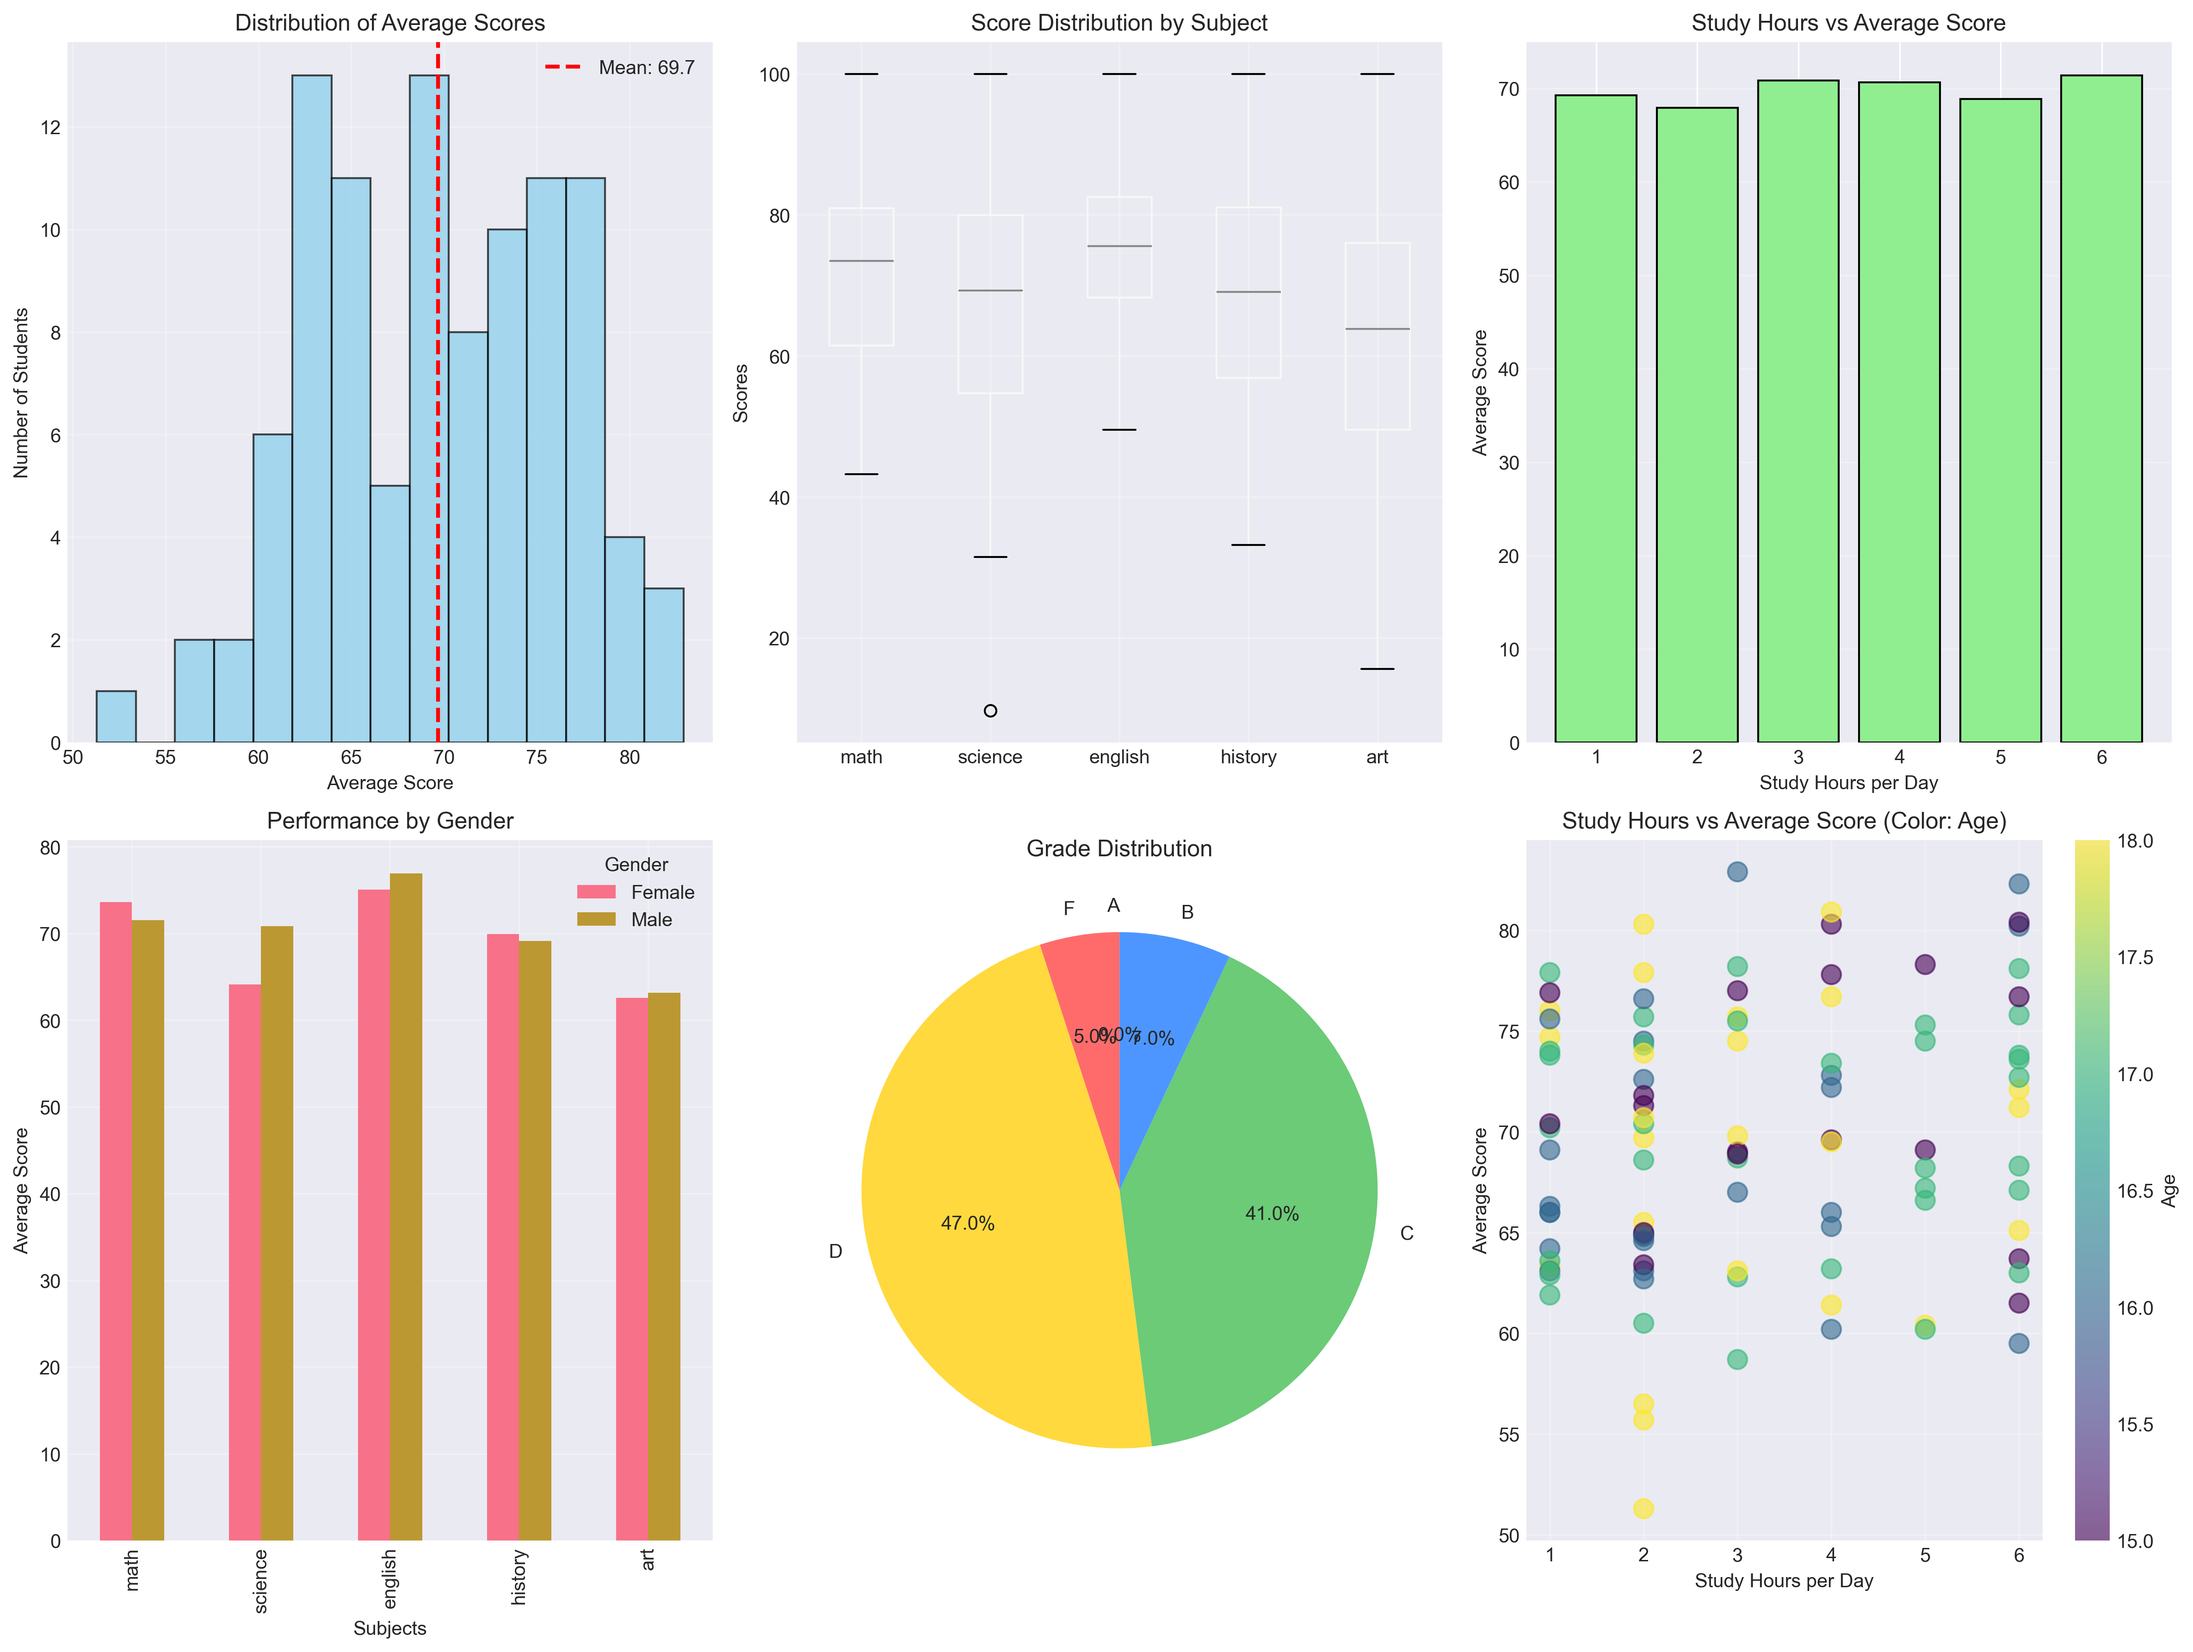
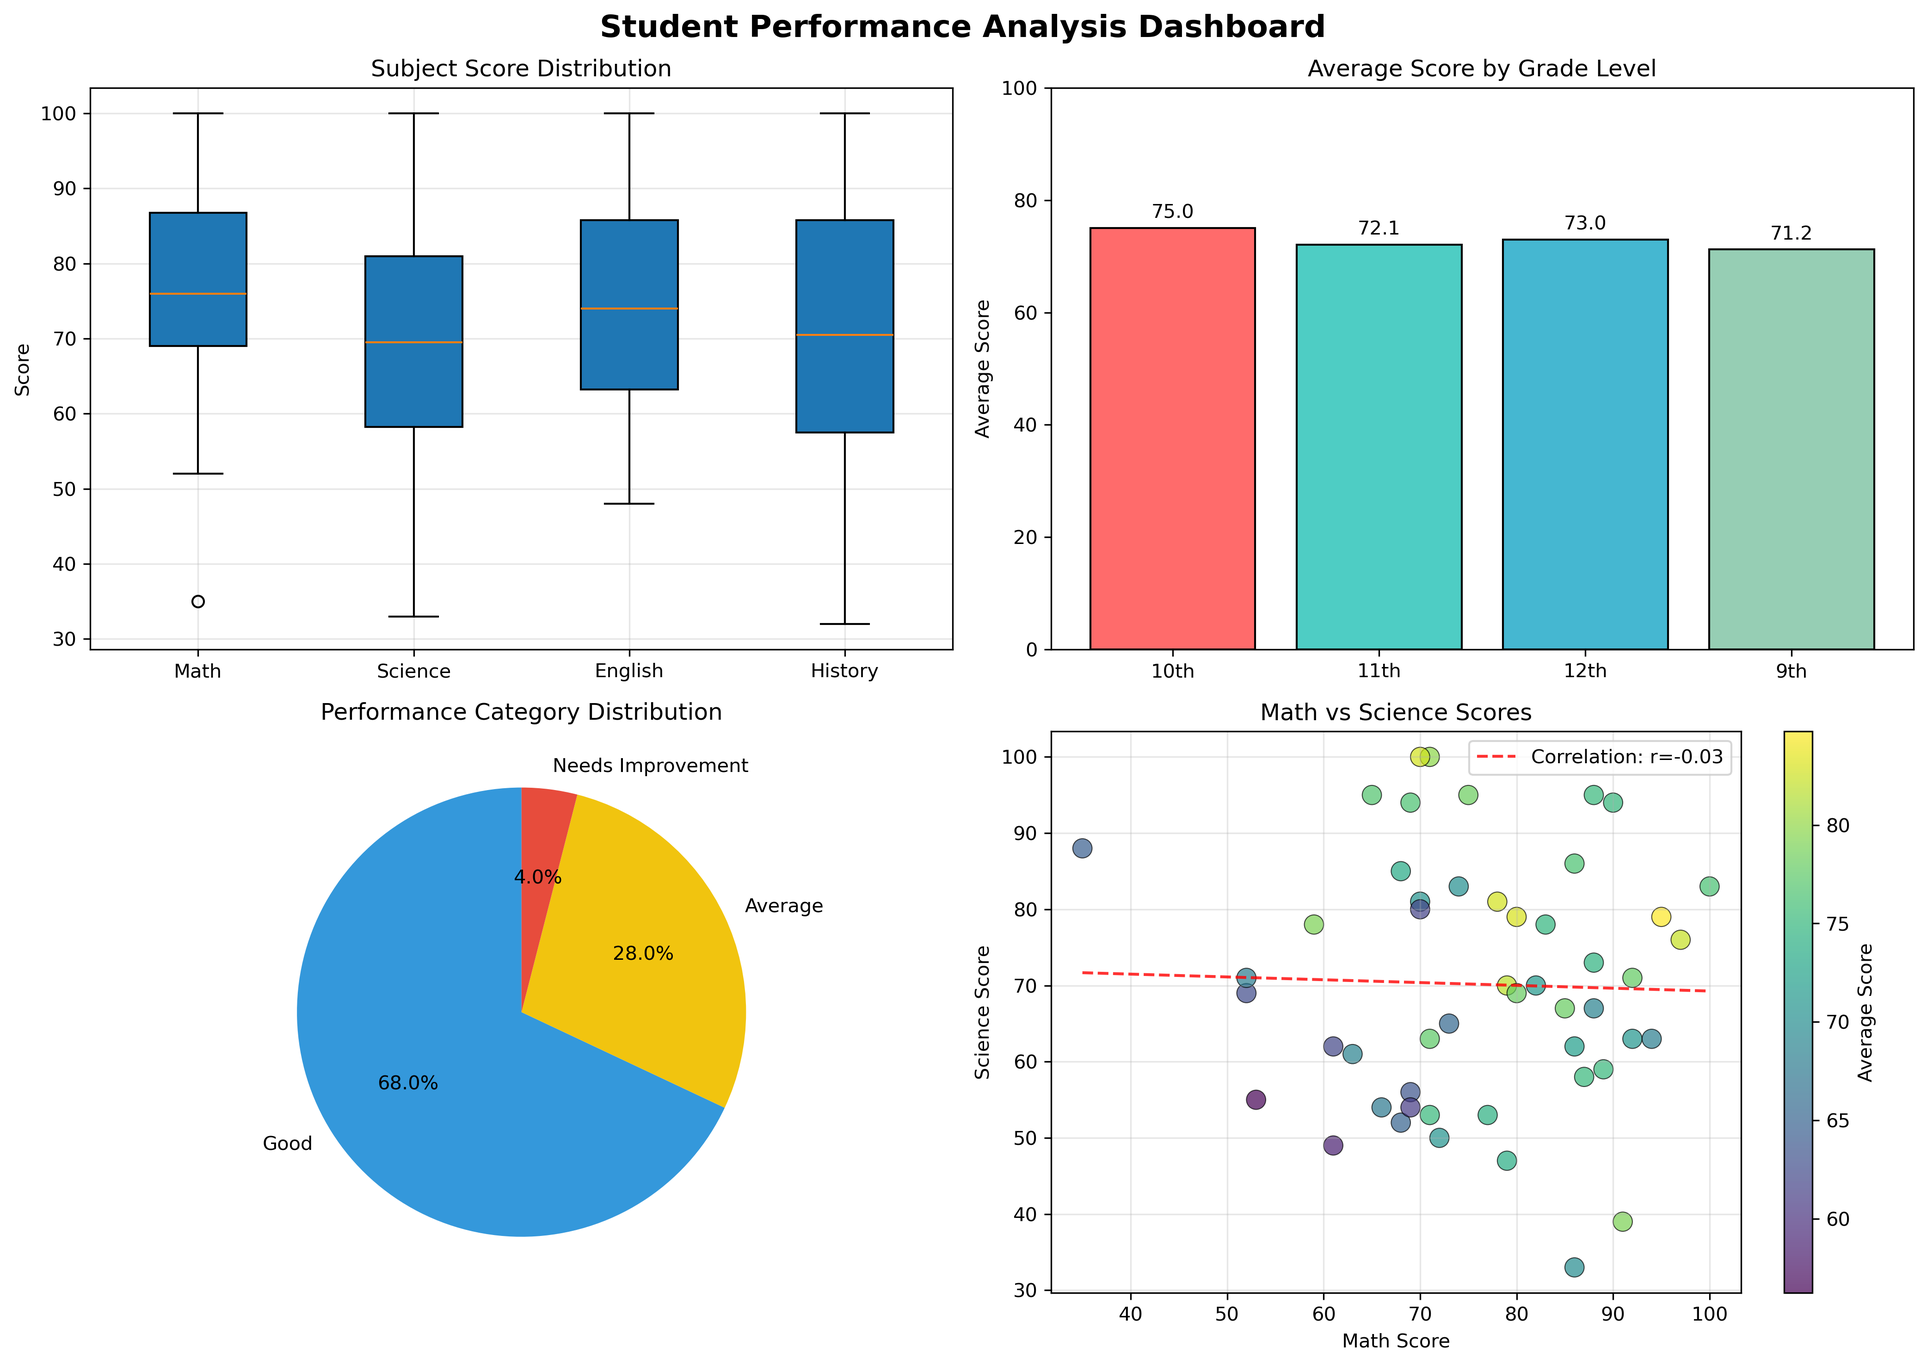
Created student performance analysis dashboard with data generation, statistics, and visualizations

diff --git a/Matplotlib/student_score_dashboard.py b/Matplotlib/student_score_dashboard.py
@@ -1,0 +1,181 @@
+import numpy as np
+import pandas as pd
+import matplotlib.pyplot as plt
+from datetime import datetime, timedelta
+
+# Set random seed for reproducibility
+np.random.seed(42)
+
+# Generate synthetic student data
+def generate_student_data(num_students=50):
+    """
+    Generate synthetic student performance data
+    """
+    # Student names
+    first_names = ['Emma', 'Liam', 'Olivia', 'Noah', 'Ava', 'James', 'Sophia', 
+                   'Oliver', 'Mia', 'Ethan', 'Charlotte', 'Mason', 'Amelia', 
+                   'Logan', 'Harper', 'Elijah', 'Evelyn', 'Alexander', 'Abigail',
+                   'William', 'Emily', 'Benjamin', 'Elizabeth', 'Lucas', 'Sofia']
+    
+    last_names = ['Smith', 'Johnson', 'Williams', 'Brown', 'Jones', 'Garcia',
+                  'Miller', 'Davis', 'Rodriguez', 'Martinez', 'Hernandez',
+                  'Lopez', 'Wilson', 'Anderson', 'Thomas', 'Taylor', 'Moore',
+                  'Jackson', 'Martin', 'Lee', 'Perez', 'Thompson', 'White']
+    
+    # Generate random student names
+    names = []
+    for _ in range(num_students):
+        first = np.random.choice(first_names)
+        last = np.random.choice(last_names)
+        names.append(f"{first} {last}")
+    
+    # Generate random data
+    math_scores = np.random.normal(75, 15, num_students).clip(0, 100).astype(int)
+    science_scores = np.random.normal(70, 18, num_students).clip(0, 100).astype(int)
+    english_scores = np.random.normal(72, 16, num_students).clip(0, 100).astype(int)
+    history_scores = np.random.normal(68, 20, num_students).clip(0, 100).astype(int)
+    
+    # Generate ages (15-18 years)
+    current_year = datetime.now().year
+    birth_years = np.random.choice([2008, 2009, 2010, 2011], num_students)
+    ages = current_year - birth_years
+    
+    # Generate grades (9-12)
+    grades = np.random.choice(['9th', '10th', '11th', '12th'], num_students, 
+                             p=[0.25, 0.25, 0.25, 0.25])
+    
+    # Create DataFrame
+    df = pd.DataFrame({
+        'Name': names,
+        'Age': ages,
+        'Grade': grades,
+        'Math': math_scores,
+        'Science': science_scores,
+        'English': english_scores,
+        'History': history_scores
+    })
+    
+    # Calculate average score
+    df['Average'] = df[['Math', 'Science', 'English', 'History']].mean(axis=1).round(2)
+    
+    # Add performance category
+    conditions = [
+        (df['Average'] >= 85),
+        (df['Average'] >= 70),
+        (df['Average'] >= 60)
+    ]
+    choices = ['Excellent', 'Good', 'Average']
+    df['Performance'] = np.select(conditions, choices, default='Needs Improvement')
+    
+    return df
+
+# Create the dataset
+students_df = generate_student_data(50)
+
+# Display basic statistics
+print("=" * 60)
+print("STUDENT PERFORMANCE DATA ANALYSIS")
+print("=" * 60)
+print("\nFirst 5 students:")
+print(students_df.head())
+print("\nDataset Info:")
+print(students_df.info())
+print("\nBasic Statistics:")
+print(students_df.describe())
+
+# Analysis by grade
+print("\n" + "=" * 60)
+print("ANALYSIS BY GRADE LEVEL")
+print("=" * 60)
+grade_stats = students_df.groupby('Grade').agg({
+    'Average': ['mean', 'min', 'max', 'count']
+}).round(2)
+print(grade_stats)
+
+# Performance distribution
+print("\n" + "=" * 60)
+print("PERFORMANCE DISTRIBUTION")
+print("=" * 60)
+performance_counts = students_df['Performance'].value_counts()
+print(performance_counts)
+
+# Create visualizations
+fig, axes = plt.subplots(2, 2, figsize=(14, 10))
+fig.suptitle('Student Performance Analysis Dashboard', fontsize=16, fontweight='bold')
+
+# 1. Subject score distributions
+ax1 = axes[0, 0]
+subjects = ['Math', 'Science', 'English', 'History']
+data = [students_df[subject] for subject in subjects]
+ax1.boxplot(data, labels=subjects, patch_artist=True)
+ax1.set_title('Subject Score Distribution')
+ax1.set_ylabel('Score')
+ax1.grid(True, alpha=0.3)
+
+# 2. Average scores by grade
+ax2 = axes[0, 1]
+grade_avg = students_df.groupby('Grade')['Average'].mean()
+colors = ['#FF6B6B', '#4ECDC4', '#45B7D1', '#96CEB4']
+bars = ax2.bar(grade_avg.index, grade_avg.values, color=colors, edgecolor='black')
+ax2.set_title('Average Score by Grade Level')
+ax2.set_ylabel('Average Score')
+ax2.set_ylim(0, 100)
+# Add value labels on bars
+for bar in bars:
+    height = bar.get_height()
+    ax2.text(bar.get_x() + bar.get_width()/2., height + 1,
+             f'{height:.1f}', ha='center', va='bottom')
+
+# 3. Performance category distribution
+ax3 = axes[1, 0]
+performance_colors = {'Excellent': '#2ECC71', 'Good': '#3498DB', 
+                      'Average': '#F1C40F', 'Needs Improvement': '#E74C3C'}
+performance_data = students_df['Performance'].value_counts()
+pie_colors = [performance_colors[cat] for cat in performance_data.index]
+wedges, texts, autotexts = ax3.pie(performance_data.values, 
+                                    labels=performance_data.index,
+                                    autopct='%1.1f%%',
+                                    colors=pie_colors,
+                                    startangle=90)
+ax3.set_title('Performance Category Distribution')
+
+# 4. Scatter plot: Math vs Science scores
+ax4 = axes[1, 1]
+scatter = ax4.scatter(students_df['Math'], students_df['Science'],
+                     c=students_df['Average'], cmap='viridis',
+                     s=100, alpha=0.7, edgecolors='black', linewidth=0.5)
+ax4.set_xlabel('Math Score')
+ax4.set_ylabel('Science Score')
+ax4.set_title('Math vs Science Scores')
+ax4.grid(True, alpha=0.3)
+# Add correlation line
+z = np.polyfit(students_df['Math'], students_df['Science'], 1)
+p = np.poly1d(z)
+ax4.plot(students_df['Math'].sort_values(), 
+         p(students_df['Math'].sort_values()), 
+         "r--", alpha=0.8, label=f'Correlation: r={np.corrcoef(students_df["Math"], students_df["Science"])[0,1]:.2f}')
+ax4.legend()
+plt.colorbar(scatter, ax=ax4, label='Average Score')
+
+plt.tight_layout()
+plt.savefig('student_performance_analysis.png', dpi=300, bbox_inches='tight')
+plt.show()
+
+# Additional analysis: Top performers
+print("\n" + "=" * 60)
+print("TOP 10 PERFORMERS")
+print("=" * 60)
+top_10 = students_df.nlargest(10, 'Average')[['Name', 'Grade', 'Average', 'Performance']]
+print(top_10)
+
+# Subject correlation matrix
+print("\n" + "=" * 60)
+print("SUBJECT CORRELATION MATRIX")
+print("=" * 60)
+correlation_matrix = students_df[['Math', 'Science', 'English', 'History']].corr()
+print(correlation_matrix.round(3))
+
+# Save data to CSV
+students_df.to_csv('student_data.csv', index=False)
+print("\nData saved to 'student_data.csv'")
+print("Visualization saved as 'student_performance_analysis.png'")
